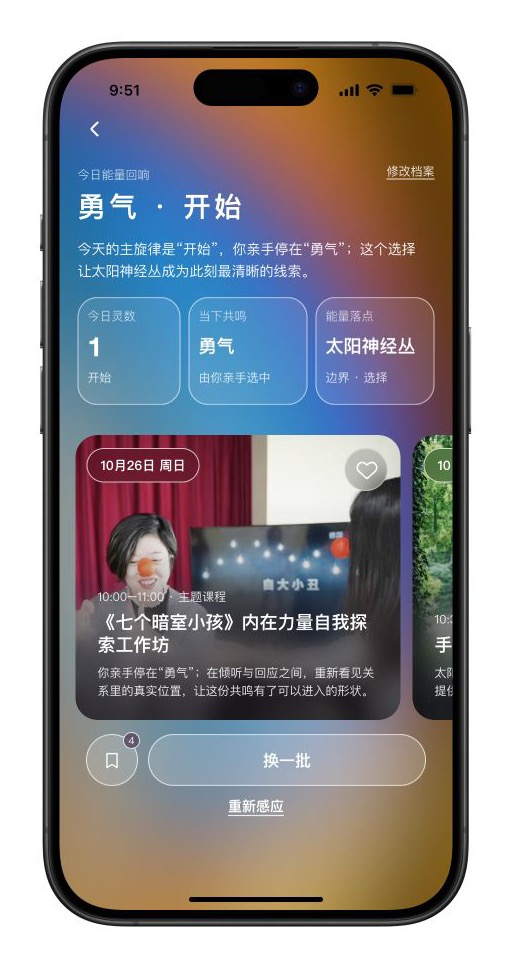
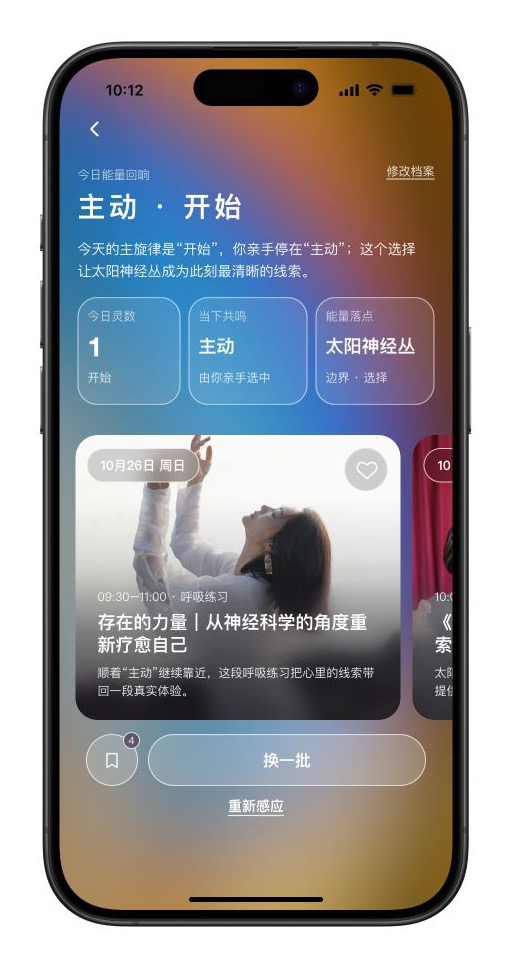
Calm result and course transitions

diff --git a/haf-energy-journey-h5/src/Prototype.tsx b/haf-energy-journey-h5/src/Prototype.tsx
@@ -1700,6 +1700,8 @@ function ResultScreen() {
   const readingCacheKey = energyReadingCacheKey(dateKey, dayNumber, insight);
   const energyReading = loadLocal(readingCacheKey, insight.energySummary);
   const [batch, setBatch] = useState(0);
+  const [courseTransitioning, setCourseTransitioning] = useState(false);
+  const courseTransitionTimerRef = useRef<number | null>(null);
   const [revealStage, setRevealStage] = useState(() => prefersReducedMotion ? 3 : 0);
   const [recentCourseIds, setRecentCourseIds] = useState(() => new Set(loadLocal<string[]>(recentCourseStorageKey, [])));
   const [sessionCourseIds, setSessionCourseIds] = useState<string[]>([]);
@@ -1726,12 +1728,15 @@ function ResultScreen() {
     }
     setRevealStage(0);
     const timers = [
-      window.setTimeout(() => setRevealStage(1), 220),
-      window.setTimeout(() => setRevealStage(2), 1500),
-      window.setTimeout(() => setRevealStage(3), 2700),
+      window.setTimeout(() => setRevealStage(1), 280),
+      window.setTimeout(() => setRevealStage(2), 1900),
+      window.setTimeout(() => setRevealStage(3), 3500),
     ];
     return () => timers.forEach((timer) => window.clearTimeout(timer));
   }, [prefersReducedMotion]);
+  useEffect(() => () => {
+    if (courseTransitionTimerRef.current !== null) window.clearTimeout(courseTransitionTimerRef.current);
+  }, []);
 
   const revealMotion = (visible: boolean, delay = 0, distance = 12) => ({
     opacity: visible ? 1 : 0,
@@ -1739,16 +1744,22 @@ function ResultScreen() {
     filter: visible ? "blur(0px)" : "blur(7px)",
     transition: prefersReducedMotion
       ? { duration: .01 }
-      : { duration: .82, delay, ease: [.22, 1, .36, 1] as [number, number, number, number] },
+      : { duration: 1.05, delay, ease: [.22, 1, .36, 1] as [number, number, number, number] },
   });
   const revealInitial = (distance = 12) => prefersReducedMotion
     ? false
     : { opacity: 0, y: distance, filter: "blur(7px)" };
 
   const refreshCourses = () => {
+    if (courseTransitioning) return;
+    setCourseTransitioning(true);
     setRecentCourseIds((previous) => new Set(appendCourseHistory(previous, orderedCourses.map((course) => course.id))));
     setSessionCourseIds((previous) => appendCourseHistory(previous, orderedCourses.map((course) => course.id)));
     setBatch((value) => value + 1);
+    courseTransitionTimerRef.current = window.setTimeout(() => {
+      setCourseTransitioning(false);
+      courseTransitionTimerRef.current = null;
+    }, prefersReducedMotion ? 30 : 940);
   };
 
   const resense = () => {
@@ -1799,30 +1810,62 @@ function ResultScreen() {
           style={{ pointerEvents: revealStage >= 3 ? "auto" : "none" }}
         >
           <h2 className="visually-hidden">此刻与你契合的体验</h2>
-          <Carousel className="course-rail" contentClassName="course-track" ariaLabel="此刻与你契合的体验">
-            {orderedCourses.map((course) => {
-              const saved = favorites.includes(course.id);
-              return (
-                <article className="course-card" data-testid="course-card" data-course-id={course.id} key={course.id}>
-                  <img className="course-visual" src={course.image} alt="" />
-                  <div className="course-shade" aria-hidden="true" />
-                  <div className="course-copy-haze" aria-hidden="true" />
-                  <small className="course-date-pill">{course.dateLabel}</small>
-                  <button
-                    className={`course-heart ${saved ? "saved" : ""}`}
-                    onClick={() => toggleFavorite(course.id)}
-                    aria-label={`${saved ? "取消收藏" : "收藏"}${course.title}`}
-                    aria-pressed={saved}
-                  >
-                    <svg viewBox="0 0 21 21" aria-hidden="true">
-                      <path d="M10.5 18.675 2.22 11.175C-2.28 6.675 4.335-1.965 10.5 5.025c6.165-6.99 12.75 1.68 8.28 6.15L10.5 18.675Z" />
-                    </svg>
-                  </button>
-                  <div className="course-copy"><span>{course.meta}</span><h3>{course.title}</h3><p>{course.fit}</p></div>
-                </article>
-              );
-            })}
-          </Carousel>
+          <AnimatePresence initial={false} mode="sync">
+            <motion.div
+              key={batch}
+              className="recommendation-batch"
+              initial={prefersReducedMotion ? false : { opacity: 0, x: 3, filter: "blur(1.5px)" }}
+              animate={{
+                opacity: 1,
+                x: 0,
+                filter: "blur(0px)",
+                transition: prefersReducedMotion ? { duration: .01 } : {
+                  opacity: { duration: .72, delay: .08, ease: "linear" },
+                  x: { duration: .78, delay: .08, ease: [.4, 0, .2, 1] },
+                  filter: { duration: .7, delay: .08, ease: [.4, 0, .2, 1] },
+                },
+              }}
+              exit={prefersReducedMotion
+                ? { opacity: 0, transition: { duration: .01 } }
+                : {
+                  opacity: 0,
+                  x: -6,
+                  filter: "blur(1.5px)",
+                  transition: {
+                    opacity: { duration: .58, ease: "linear" },
+                    x: { duration: .62, ease: [.4, 0, .2, 1] },
+                    filter: { duration: .58, ease: [.4, 0, .2, 1] },
+                  },
+                }}
+              aria-busy={courseTransitioning}
+              style={{ pointerEvents: courseTransitioning ? "none" : "auto" }}
+            >
+              <Carousel className="course-rail" contentClassName="course-track" ariaLabel="此刻与你契合的体验">
+                {orderedCourses.map((course) => {
+                  const saved = favorites.includes(course.id);
+                  return (
+                    <article className="course-card" data-testid="course-card" data-course-id={course.id} key={course.id}>
+                      <img className="course-visual" src={course.image} alt="" />
+                      <div className="course-shade" aria-hidden="true" />
+                      <div className="course-copy-haze" aria-hidden="true" />
+                      <small className="course-date-pill">{course.dateLabel}</small>
+                      <button
+                        className={`course-heart ${saved ? "saved" : ""}`}
+                        onClick={() => toggleFavorite(course.id)}
+                        aria-label={`${saved ? "取消收藏" : "收藏"}${course.title}`}
+                        aria-pressed={saved}
+                      >
+                        <svg viewBox="0 0 21 21" aria-hidden="true">
+                          <path d="M10.5 18.675 2.22 11.175C-2.28 6.675 4.335-1.965 10.5 5.025c6.165-6.99 12.75 1.68 8.28 6.15L10.5 18.675Z" />
+                        </svg>
+                      </button>
+                      <div className="course-copy"><span>{course.meta}</span><h3>{course.title}</h3><p>{course.fit}</p></div>
+                    </article>
+                  );
+                })}
+              </Carousel>
+            </motion.div>
+          </AnimatePresence>
         </motion.section>
         <motion.footer
           className="result-actions"
@@ -1840,6 +1883,7 @@ function ResultScreen() {
             <button
               className={`result-refresh ${recommendationLimitReached ? "result-refresh-resense" : ""}`}
               onClick={recommendationLimitReached ? resense : refreshCourses}
+              disabled={courseTransitioning}
             >{recommendationLimitReached ? "重新感应" : "换一批"}</button>
           </div>
           {!recommendationLimitReached && <button className="result-resense" onClick={resense}>重新感应</button>}

diff --git a/haf-energy-journey-h5/src/prototype.css b/haf-energy-journey-h5/src/prototype.css
@@ -190,6 +190,7 @@ button { font: inherit; -webkit-tap-highlight-color: transparent; }
 .energy-facets > span:first-child strong { font-family: "Graphik", "Helvetica Neue", Arial, sans-serif; font-size: 27px; }
 .energy-facets em { margin: 0; align-self: start; color: rgba(255,255,255,.78); font-size: 12px; line-height: 18px; }
 .recommendations { position: relative; z-index: 4; height: 285px; flex: 0 0 285px; margin-top: 13px; }
+.recommendation-batch { position: absolute; inset: 0; width: 100%; }
 .course-rail { width: 100%; }
 .course-track { display: flex; gap: 12px; padding: 0 16px 6px; }
 .course-card { position: relative; isolation: isolate; flex: 0 0 325px; height: 285px; padding: 0; box-sizing: border-box; overflow: hidden; border: 0; border-radius: 22px; background: rgba(23,29,35,.52); box-shadow: 0 16px 34px rgba(0,0,0,.2); clip-path: inset(0 round 22px); transform: translateZ(0); }

diff --git a/haf-energy-journey-h5/AGENTS.md b/haf-energy-journey-h5/AGENTS.md
@@ -27,7 +27,7 @@
 - The user's selected word is the primary present-moment input. Personal Day supplies `今日主旋律`, Life Path and Personal Day softly choose a supporting chakra, and none is presented as deterministic fact.
 - `今日灵数` means Personal Day, not Life Path. Its approved v2 display words are `1 开始`, `2 连接`, `3 表达`, `4 安定`, `5 变化`, `6 关怀`, `7 内省`, `8 实现`, and `9 完成`. These are short HAF interpretations, not canonical scientific labels and not chakra names. Keep them distinct from all 70 sensing words.
 - Result synthesis uses three distinct layers: the released word supplies `当下共鸣`, that word directly supplies the primary `能量落点`, and Personal Day supplies `今日主旋律`. The hero combines them as `{用户选词} · {今日主旋律}`.
-- Reveal the result as three calm grouped beats without changing its fixed layout or staggering items inside a group: around 0.2 seconds, reveal the `今日能量回响` label, composite title, and core reflection together; around 1.5 seconds, reveal all three evidence facets together; around 2.7 seconds, reveal the course rail and all bottom actions together. Let each group resolve softly so the full sequence completes near 3.5 seconds, reserve every section's space from the first frame to prevent layout shift, disable unrevealed course controls, and show everything immediately for reduced-motion users.
+- Reveal the result as three calm grouped beats without changing its fixed layout or staggering items inside a group: around 0.28 seconds, reveal the `今日能量回响` label, composite title, and core reflection together; around 1.9 seconds, reveal all three evidence facets together; around 3.5 seconds, reveal the course rail and all bottom actions together. Let each group resolve softly over about 1.05 seconds so the full sequence completes near 4.55 seconds, reserve every section's space from the first frame to prevent layout shift, disable unrevealed course controls, and show everything immediately for reduced-motion users.
 - Keep the selected result visual: elegant blue atmosphere, one blue-orange orb and flowing light, restrained white typography, translucent glass, and generous space.
 - The 2026-08-26 visual-refresh branch uses the supplied `iPhone 16 - 5.png`, `iPhone 16 - 6.png`, and Figma Octave node `10578:5067` as the visual source for the profile and result screens. Preserve their 393 × 852 full-screen blurred blue-orange atmosphere, centered profile fields, three translucent result facets, image-led horizontal course cards, pill CTA, and restrained white type; keep the protected mobile runtime, deterministic energy facts, and catalog-backed course data unchanged.
 - The energy orb must keep an opaque, saturated core. Motion should come from layered real-image halo and light passes rather than fading the entire orb; surrounding blue-orange light flow should feel slow, continuous, and luminous rather than like a floating background image.
@@ -49,6 +49,7 @@
 - Recommendation cards must retain rounded top and bottom corners even when blurred copy layers use GPU compositing. The three energy-facet footer values (daily theme, selection provenance, and chakra themes) share one aligned baseline regardless of the different main-value sizes.
 - Course recommendation eligibility is gated by the displayed primary chakra: every returned course must include that chakra in `chakra_tags`. `换一批` exhausts courses not yet shown in the current result session inside this relevant pool, avoids the immediately previous batch when possible, and recycles older matching courses before ever introducing a course tagged only for another chakra. Relevance always outranks novelty.
 - `换一批` is finite for one result: derive the available batch count from the primary-chakra eligible pool in groups of three and cap it at four batches. Once the final useful batch is visible, turn the main pill into `重新感应` and hide the duplicate underlined re-sensing action; never keep recycling courses indefinitely.
+- `换一批` uses a restrained course-rail handoff rather than replacing cards abruptly: the outgoing batch fades while moving about 6px left, and the incoming batch begins about 3px to the right before settling into place. Keep the exchange under one second, prevent repeated refresh taps during it, and remove the travel for reduced-motion users.
 - Historical course `keyword_tags` are inferred independently from the course title, description, and official API tags. Never derive them from `numerology_tags`: selected-word evidence and numerology evidence are separate score components and must not double-count the same tag.
 - On real-course cards, the small eyebrow displays the course date and the metadata line displays the session start-end time plus format; do not label the card body `今日契合点` or substitute duration for the real schedule. The three fit reasons should deliberately use different grounded lenses—daily numerology, selected-word resonance, and chakra evidence—so the cards do not repeat one template.
 - Course-fit copy must read as a culturally literate interpretation rather than a tag splice. Build a concise bridge from the exact selected word or daily theme, through the symbolic chakra concern, into concrete course actions found in the title/description (for example, sprinting, jumping and landing can give a root-chakra word like `安全` bodily weight). Keep the metaphor grounded, never invent outcomes, and use `今日` only when that course actually matches the Personal Day—not merely the Life Path.

diff --git a/haf-energy-journey-h5/design-qa.md b/haf-energy-journey-h5/design-qa.md
@@ -3,7 +3,7 @@
 - Source visual truth: `qa/result-progressive-reveal-2026-08-29/source-reference.png`
 - Implementation: `http://127.0.0.1:4173/`
 - Final implementation screenshot: `qa/result-progressive-reveal-2026-08-29/04-final-phone-frame.jpg`
-- Temporal evidence: `01-stage.jpg`, `02-stage.jpg`, `03-stage.jpg`
+- Temporal evidence: `01-stage.jpg`, `02-stage.jpg`, `03-stage.jpg`, `05-batch-transition.jpg`, `06-batch-final.jpg`
 - Side-by-side comparison: `qa/result-progressive-reveal-2026-08-29/comparison-side-by-side.png`
 - Source pixels: 708 × 1346, including the iPhone frame.
 - Implementation pixels: 511 × 968 phone-frame capture; app screen verified at 393 × 852 CSS px and scale 1.
@@ -51,12 +51,22 @@
 - The static comparison was regenerated with the latest final implementation screenshot. Dynamic result copy and catalog imagery differ from the source by expected sensing/catalog state, while the approved layout remains unchanged.
 - Console check: no application errors or warnings; only the normal Vite connection and React development-mode notices were present.
 
+### Pass 4 — passed after therapeutic-rhythm refinement
+
+- Finding: P2 temporal tone. The 3.52s grouped reveal still felt hurried for a screen intended to hold a quiet, therapeutic field, and `换一批` replaced the recommendation rail abruptly.
+- Fix: moved the grouped boundaries to 0.28s, 1.90s, and 3.50s, extended each group transition to 1.05s, and completed the full result narrative near 4.55s without changing layout. Added a restrained recommendation-batch crossfade: the outgoing rail fades and travels 6px left while the incoming rail starts 3px to the right and settles over roughly 0.8s.
+- Interaction guard: the refresh action is disabled during the batch handoff, the transitioning rail ignores pointer events, and reduced-motion users receive an immediate replacement without horizontal travel.
+- `01-stage.jpg`, `02-stage.jpg`, and `03-stage.jpg` confirm the slower three-beat hierarchy with no section shift.
+- `05-batch-transition.jpg` captures the fading overlap during the 6px/3px exchange; `06-batch-final.jpg` confirms the next unseen course batch settles into the identical card geometry.
+- Browser sampling confirmed the old and new batches coexist only during the transition, the IDs change to a new recommendation set, and the refresh control unlocks after the new rail settles.
+- Console check: no application errors or warnings.
+
 ## Focused-region comparison
 
-No separate static crop was needed because this pass does not change typography, card anatomy, imagery or spacing. The affected surface is temporal and spans the full result view; the three equal-frame stage captures are the focused comparison evidence.
+No separate static crop was needed because this pass does not change typography, card anatomy, imagery or spacing. The affected surface is temporal and spans the full result view; the three equal-frame stage captures plus the two batch-handoff frames are the focused comparison evidence.
 
 ## Follow-up polish
 
-- P3: after device testing, the gaps between the 0.22s, 1.50s, and 2.70s group boundaries can be adjusted by roughly ±0.15s without changing the approved grouped choreography.
+- P3: after device testing, the gaps between the 0.28s, 1.90s, and 3.50s group boundaries can be adjusted by roughly ±0.15s without changing the approved grouped choreography.
 
 final result: passed
